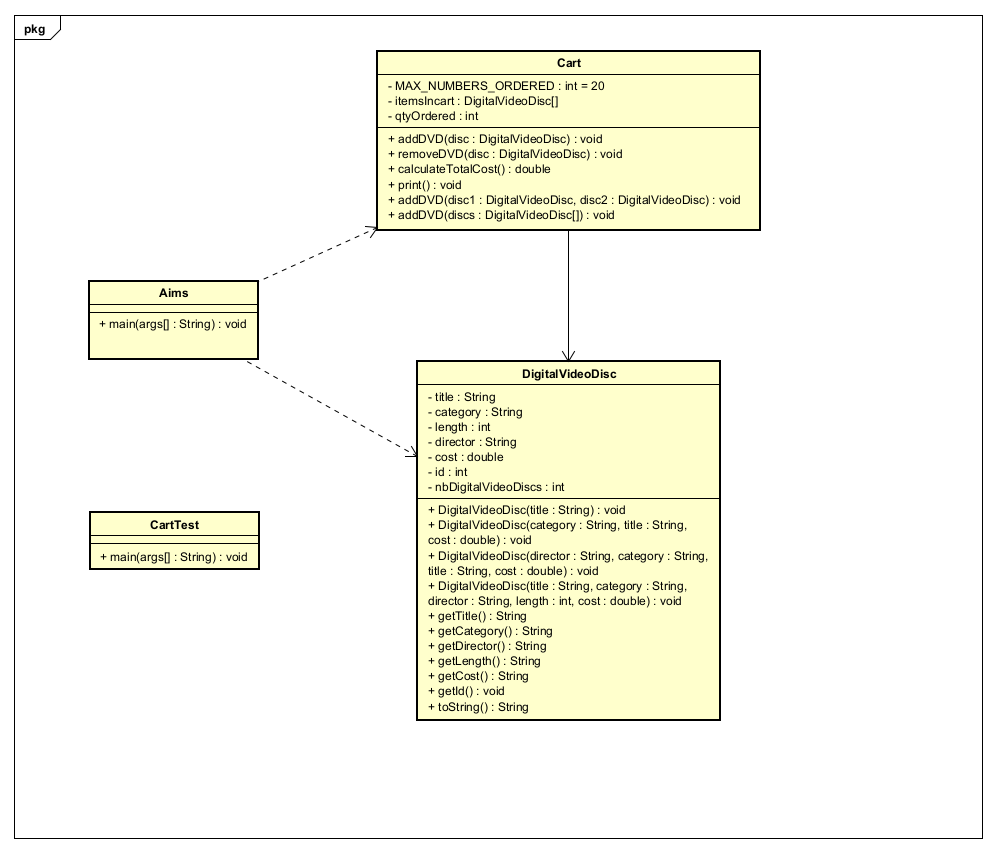
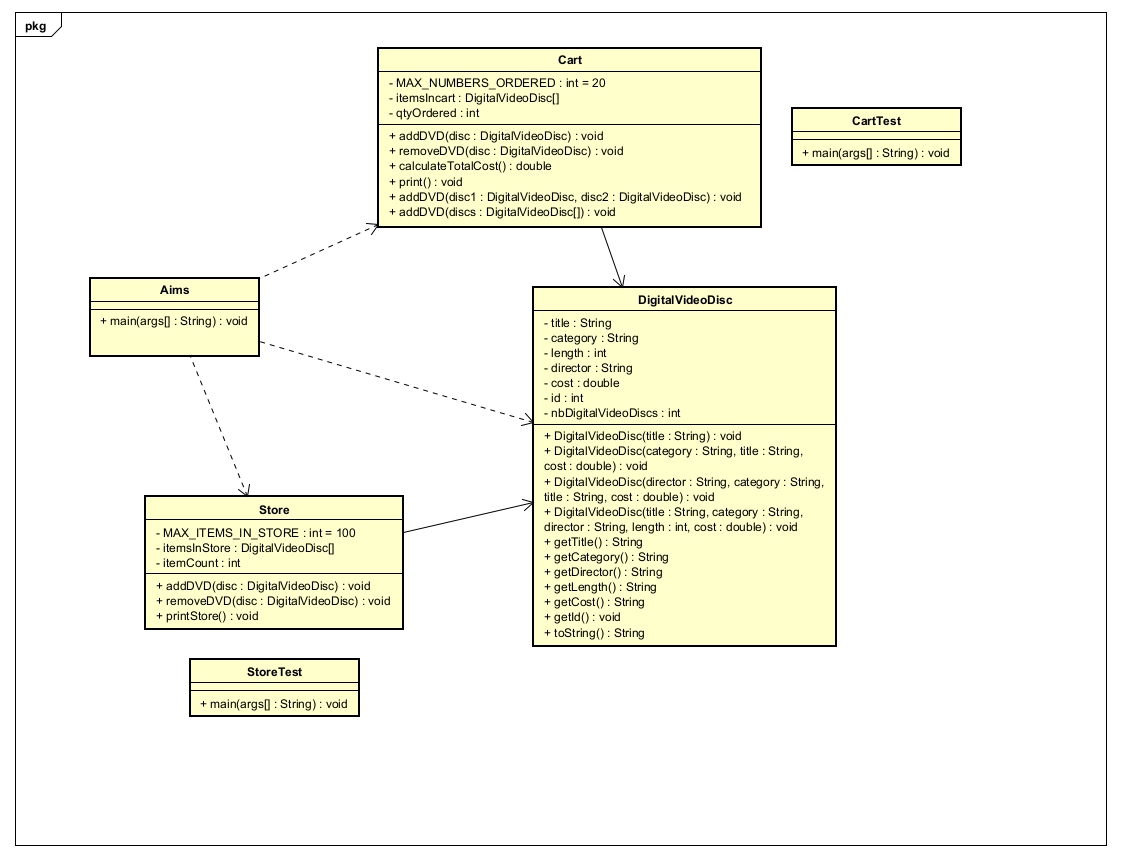
Store and StoreTest

diff --git a/AimsProject/AimsProject/src/com/hust/kstn/models/Store.java b/AimsProject/AimsProject/src/com/hust/kstn/models/Store.java
@@ -1,0 +1,59 @@
+package com.hust.kstn.models;
+
+public class Store {
+    public static final int MAX_ITEMS_IN_STORE = 100; 
+    
+    private DigitalVideoDisc[] itemsInStore = new DigitalVideoDisc[MAX_ITEMS_IN_STORE];
+    private int itemCount = 0;
+
+    public void addDVD(DigitalVideoDisc disc) {
+        if (itemCount + 1 > MAX_ITEMS_IN_STORE) {
+            System.out.println("The store is almost full. Cannot add the disc.");
+        } else {
+            itemsInStore[itemCount] = disc;
+            itemCount++;
+            System.out.println("The disc has been added to the store.");
+        }
+    }
+
+    public void removeDVD(DigitalVideoDisc disc) {
+        if (itemCount == 0) {
+            System.out.println("The store is empty. Cannot remove the disc.");
+            return;
+        }
+
+        boolean found = false;
+        for (int i = 0; i < itemCount; i++) {
+            if (itemsInStore[i] == disc) {
+                found = true;
+                
+                for (int j = i; j < itemCount - 1; j++) {
+                    itemsInStore[j] = itemsInStore[j + 1];
+                }
+                itemsInStore[itemCount - 1] = null;
+                itemCount--;
+                System.out.println("The disc has been removed from the store.");
+                break;
+            }
+        }
+
+        if (found == false) {
+            System.out.println("The disc does not exist in the store.");
+        }
+    }
+
+    public void printStore() {
+        System.out.println("======================= ITEMS IN STORE =======================");
+        if (itemCount == 0) {
+            System.out.println("The store is empty.");
+            System.out.println("================================================================");
+            return;
+        } else {
+            System.out.println("Total items: " + itemCount);
+            for (int i = 0; i < itemCount; i++) {
+                System.out.println(itemsInStore[i].toString());
+            }
+        }
+        System.out.println("================================================================");
+    }
+}

diff --git a/AimsProject/AimsProject/src/com/hust/kstn/test/StoreTest.java b/AimsProject/AimsProject/src/com/hust/kstn/test/StoreTest.java
@@ -1,0 +1,37 @@
+package com.hust.kstn.test;
+
+import com.hust.kstn.models.DigitalVideoDisc;
+import com.hust.kstn.models.Store;
+
+public class StoreTest {
+    public static void main(String[] args) {
+        Store store = new Store();
+
+        DigitalVideoDisc dvd1 = new DigitalVideoDisc("The Lion King", "Animation", "Roger Allers", 87, 19.95);
+        DigitalVideoDisc dvd2 = new DigitalVideoDisc("Star Wars", "Science Fiction", "George Lucas", 124, 24.95);
+        DigitalVideoDisc dvd3 = new DigitalVideoDisc("Aladdin", "Animation", "John Musker", 90, 18.99);
+
+        System.out.println("--- Adding DVD 1, 2, 3 ---");
+        store.addDVD(dvd1);
+        store.addDVD(dvd2);
+        store.addDVD(dvd3);
+        store.printStore();
+
+        System.out.println("--- Removing DVD 2 ---");
+        store.removeDVD(dvd2);
+        store.printStore();
+
+        System.out.println("--- Removing DVD 2 again (not in store) ---");
+        store.removeDVD(dvd2);
+        store.printStore();
+        
+        System.out.println("--- Removing remaining DVDs ---");
+        store.removeDVD(dvd1);
+        store.removeDVD(dvd3);
+        store.printStore();
+
+        System.out.println("--- Attempting to remove from empty store ---");
+        store.removeDVD(dvd1);
+        store.printStore();
+    }
+}
